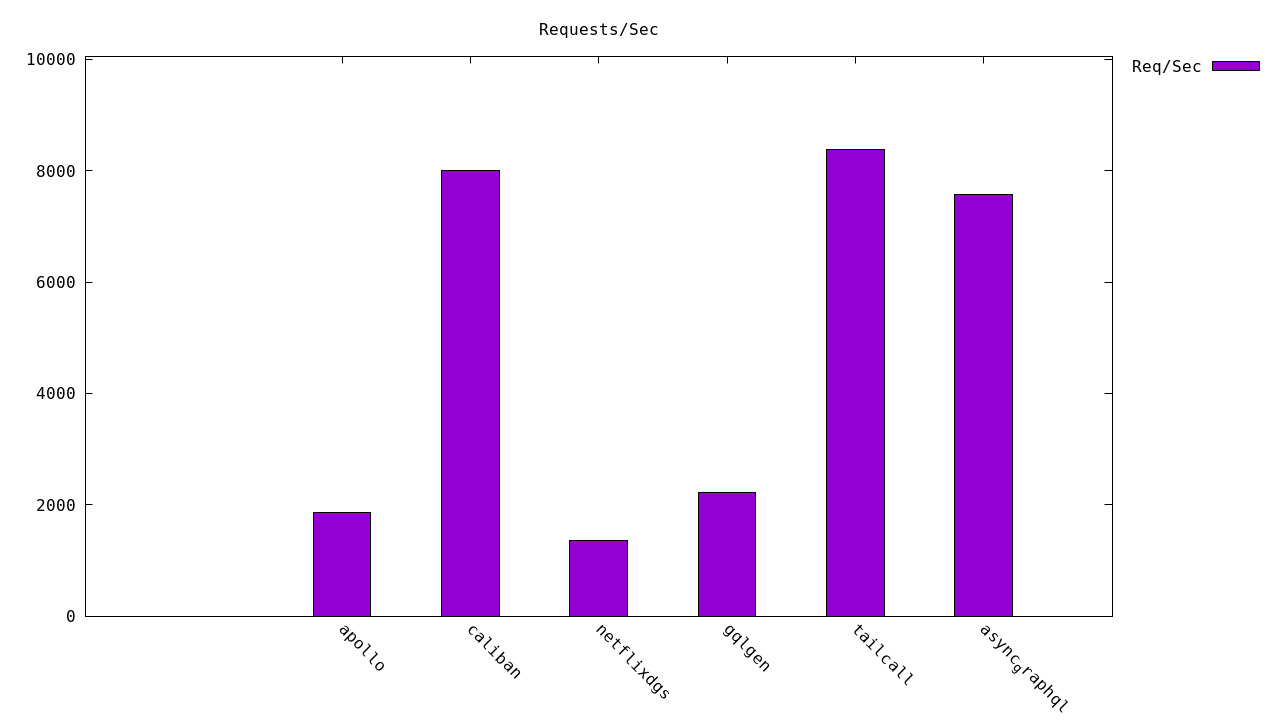
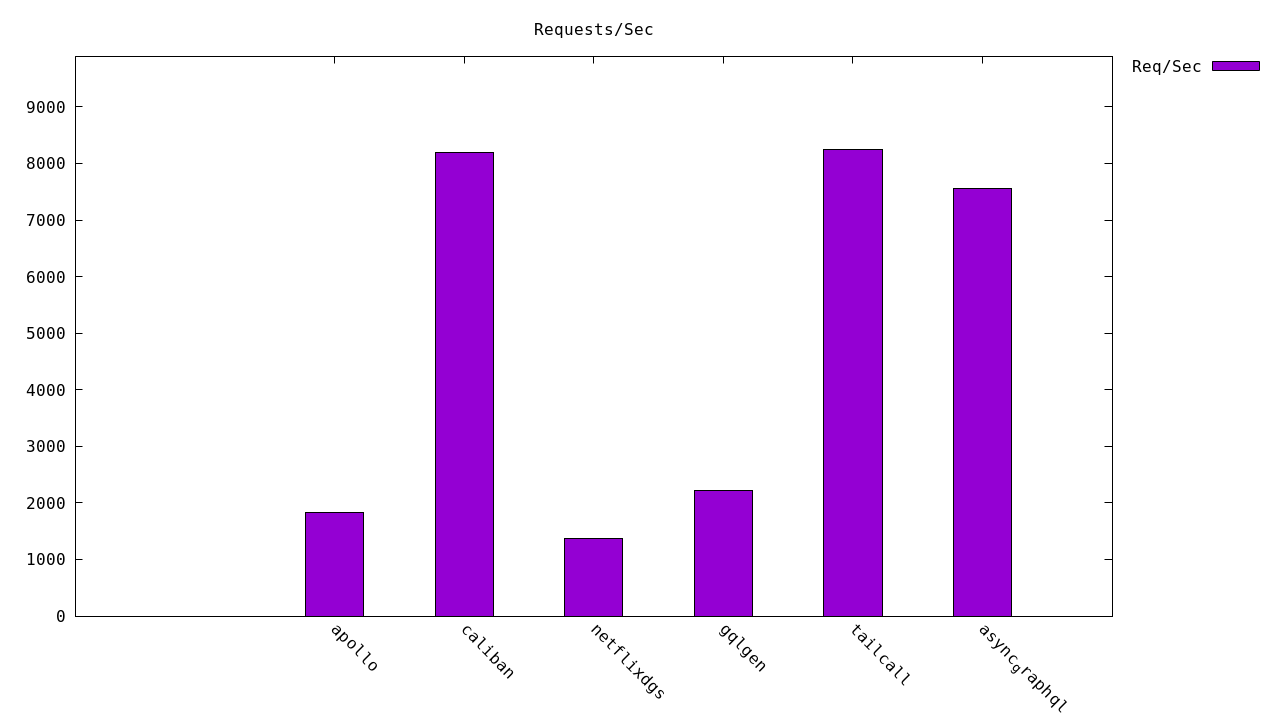
Update performance results in README.md

diff --git a/README.md b/README.md
@@ -47,12 +47,12 @@ Get started with the benchmarks:
 
 | Server | Requests/sec | Latency (ms) |
 |--------:|--------------:|--------------:|
-| [Tailcall] | `8,377.22` | `11.93` |
-| [Caliban] | `8,001.04` | `12.55` |
-| [async-graphql] | `7,564.73` | `13.23` |
-| [Gqlgen] | `2,228.09` | `46.23` |
-| [Apollo GraphQL] | `1,866.89` | `53.43` |
-| [Netflix DGS] | `1,359.74` | `77.43` |
+| [Tailcall] | `8,242.31` | `12.10` |
+| [Caliban] | `8,199.65` | `12.20` |
+| [async-graphql] | `7,551.22` | `13.19` |
+| [Gqlgen] | `2,215.94` | `46.79` |
+| [Apollo GraphQL] | `1,830.45` | `54.53` |
+| [Netflix DGS] | `1,367.73` | `77.50` |
 
 <!-- PERFORMANCE_RESULTS_END -->
 

diff --git a/results.md b/results.md
@@ -2,11 +2,11 @@
 
 | Server | Requests/sec | Latency (ms) |
 |--------:|--------------:|--------------:|
-| [Tailcall] | `8,377.22` | `11.93` |
-| [Caliban] | `8,001.04` | `12.55` |
-| [async-graphql] | `7,564.73` | `13.23` |
-| [Gqlgen] | `2,228.09` | `46.23` |
-| [Apollo GraphQL] | `1,866.89` | `53.43` |
-| [Netflix DGS] | `1,359.74` | `77.43` |
+| [Tailcall] | `8,242.31` | `12.10` |
+| [Caliban] | `8,199.65` | `12.20` |
+| [async-graphql] | `7,551.22` | `13.19` |
+| [Gqlgen] | `2,215.94` | `46.79` |
+| [Apollo GraphQL] | `1,830.45` | `54.53` |
+| [Netflix DGS] | `1,367.73` | `77.50` |
 
 <!-- PERFORMANCE_RESULTS_END -->
